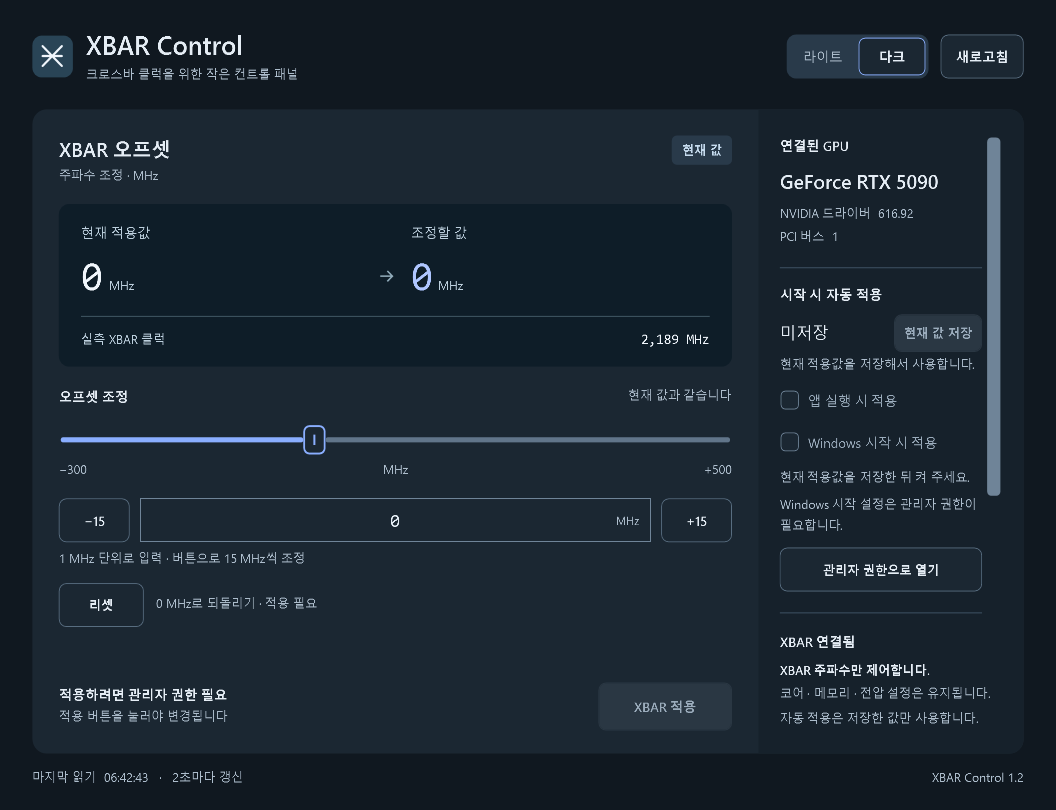
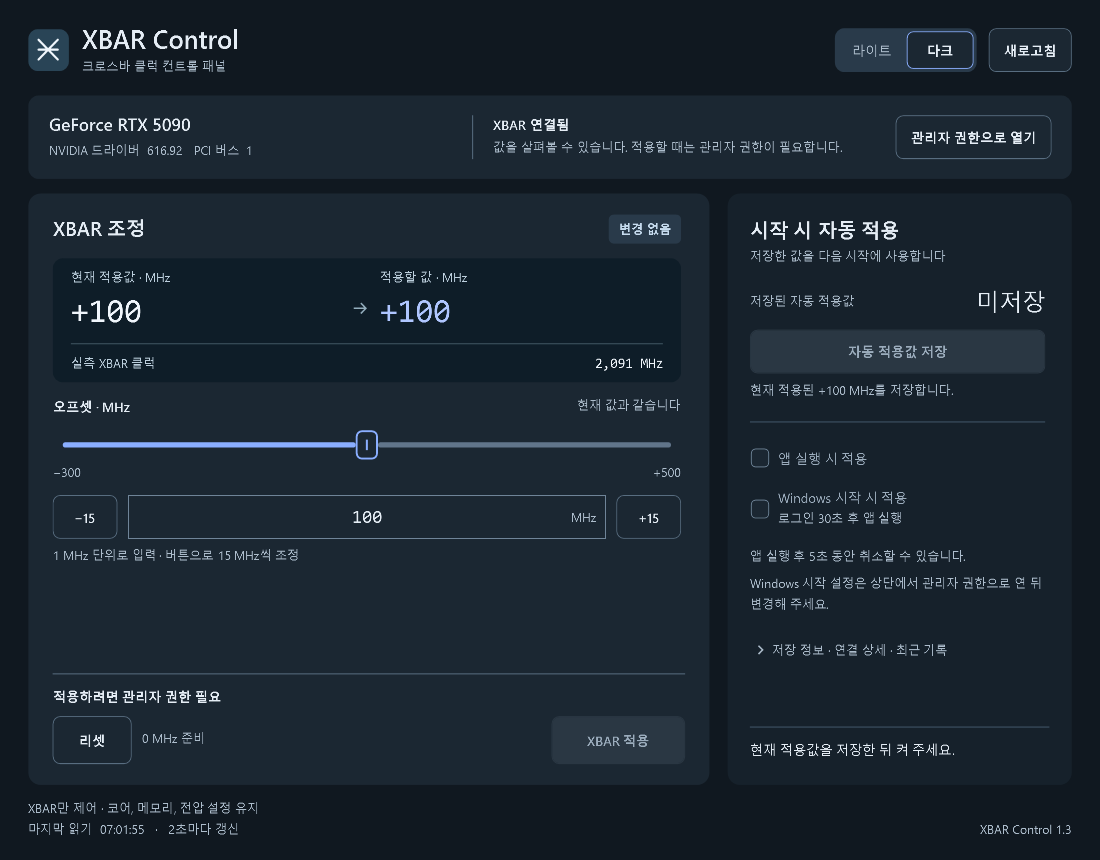
Improve control layout and delay Windows startup by 30 seconds

diff --git a/src/MainWindow.xaml b/src/MainWindow.xaml
@@ -1,6 +1,6 @@
 <Window xmlns="http://schemas.microsoft.com/winfx/2006/xaml/presentation"
         xmlns:x="http://schemas.microsoft.com/winfx/2006/xaml"
-        Title="XBAR Control" Width="1056" Height="810" MinWidth="880" MinHeight="790"
+        Title="XBAR Control" Width="1100" Height="860" MinWidth="900" MinHeight="790"
         WindowStartupLocation="CenterScreen" Background="{DynamicResource Workspace}" Foreground="{DynamicResource Ink}"
         FontFamily="Segoe UI, Malgun Gothic" FontSize="13" UseLayoutRounding="True"
         TextOptions.TextFormattingMode="Display">
@@ -91,7 +91,7 @@
       </ToggleButton>
       <ContentPresenter x:Name="Expanded" Visibility="Collapsed"/>
     </StackPanel><ControlTemplate.Triggers><Trigger Property="IsExpanded" Value="True"><Setter TargetName="Expanded" Property="Visibility" Value="Visible"/></Trigger></ControlTemplate.Triggers></ControlTemplate></Setter.Value></Setter></Style>
-    <Style TargetType="ScrollBar"><Setter Property="Width" Value="10"/><Setter Property="Template"><Setter.Value><ControlTemplate TargetType="ScrollBar"><Grid Background="{DynamicResource Sidebar}"><Track x:Name="PART_Track" IsDirectionReversed="True" Orientation="Vertical"><Track.DecreaseRepeatButton><RepeatButton Command="ScrollBar.PageUpCommand" Opacity="0" Focusable="False"/></Track.DecreaseRepeatButton><Track.Thumb><Thumb><Thumb.Template><ControlTemplate TargetType="Thumb"><Border Background="{DynamicResource InputLine}" CornerRadius="4" Margin="2"/></ControlTemplate></Thumb.Template></Thumb></Track.Thumb><Track.IncreaseRepeatButton><RepeatButton Command="ScrollBar.PageDownCommand" Opacity="0" Focusable="False"/></Track.IncreaseRepeatButton></Track></Grid></ControlTemplate></Setter.Value></Setter></Style>
+    <Style TargetType="ScrollBar"><Setter Property="Width" Value="10"/><Setter Property="Template"><Setter.Value><ControlTemplate TargetType="ScrollBar"><Grid Background="Transparent"><Track x:Name="PART_Track" IsDirectionReversed="True" Orientation="Vertical"><Track.DecreaseRepeatButton><RepeatButton Command="ScrollBar.PageUpCommand" Opacity="0" Focusable="False"/></Track.DecreaseRepeatButton><Track.Thumb><Thumb><Thumb.Template><ControlTemplate TargetType="Thumb"><Border Background="{DynamicResource InputLine}" CornerRadius="4" Margin="2"/></ControlTemplate></Thumb.Template></Thumb></Track.Thumb><Track.IncreaseRepeatButton><RepeatButton Command="ScrollBar.PageDownCommand" Opacity="0" Focusable="False"/></Track.IncreaseRepeatButton></Track></Grid></ControlTemplate></Setter.Value></Setter></Style>
     <Style x:Key="TrackButton" TargetType="RepeatButton"><Setter Property="Focusable" Value="False"/><Setter Property="IsTabStop" Value="False"/><Setter Property="Template"><Setter.Value><ControlTemplate TargetType="RepeatButton"><Border Height="5" Background="{TemplateBinding Background}" CornerRadius="2"/></ControlTemplate></Setter.Value></Setter></Style>
     <Style TargetType="Slider">
       <Setter Property="FocusVisualStyle" Value="{StaticResource Focus}"/>
@@ -106,15 +106,15 @@
       </ControlTemplate></Setter.Value></Setter>
     </Style>
   </Window.Resources>
-  <Grid Margin="32,26,32,20">
-    <Grid.RowDefinitions><RowDefinition Height="Auto"/><RowDefinition Height="22"/><RowDefinition Height="*"/><RowDefinition Height="Auto"/></Grid.RowDefinitions>
-    <Grid>
+  <Grid Margin="28,20,28,18">
+    <Grid.RowDefinitions><RowDefinition Height="Auto"/><RowDefinition Height="Auto"/><RowDefinition Height="*"/><RowDefinition Height="Auto"/></Grid.RowDefinitions>
+    <Grid Margin="0,0,0,16">
       <Grid.ColumnDefinitions><ColumnDefinition Width="*"/><ColumnDefinition Width="Auto"/></Grid.ColumnDefinitions>
       <StackPanel Orientation="Horizontal" VerticalAlignment="Center">
         <Border Width="40" Height="40" Background="{DynamicResource Logo}" CornerRadius="9" Margin="0,0,13,0">
           <Viewbox Margin="10"><Path Data="M 0,0 L 20,20 M 20,0 L 0,20 M 0,10 L 20,10" Stroke="{DynamicResource LogoInk}" StrokeThickness="2.2" StrokeStartLineCap="Round" StrokeEndLineCap="Round"/></Viewbox>
         </Border>
-        <StackPanel><TextBlock Text="XBAR Control" FontSize="25" FontWeight="SemiBold"/><TextBlock Text="크로스바 클럭을 위한 작은 컨트롤 패널" Style="{StaticResource Quiet}" Margin="0,3,0,0"/></StackPanel>
+        <StackPanel><TextBlock Text="XBAR Control" FontSize="25" FontWeight="SemiBold"/><TextBlock Text="크로스바 클럭 컨트롤 패널" Style="{StaticResource Quiet}" Margin="0,2,0,0"/></StackPanel>
       </StackPanel>
       <StackPanel Grid.Column="1" Orientation="Horizontal" VerticalAlignment="Center">
         <Border Background="{DynamicResource StatusSurface}" CornerRadius="9" Padding="3" Margin="0,0,12,0">
@@ -123,98 +123,99 @@
             <RadioButton x:Name="DarkTheme" Content="다크" GroupName="Theme" Style="{StaticResource ThemeChoice}" Margin="2,0,0,0" AutomationProperties.Name="다크 모드" ToolTip="어두운 화면으로 전환 · 선택 자동 저장"/>
           </StackPanel>
         </Border>
-        <Button x:Name="RefreshButton" Content="새로고침" VerticalAlignment="Center" ToolTip="GPU에서 현재 값을 다시 읽습니다. F5"/>
+        <Button x:Name="RefreshButton" Content="새로고침" ToolTip="GPU에서 현재 값을 다시 읽습니다. F5"/>
       </StackPanel>
     </Grid>
-    <Border Grid.Row="2" Background="{DynamicResource Surface}" CornerRadius="14">
+    <Border Grid.Row="1" Background="{DynamicResource Surface}" CornerRadius="10" Padding="20,16" Margin="0,0,0,14">
       <Grid>
-        <Grid.ColumnDefinitions><ColumnDefinition Width="*"/><ColumnDefinition Width="262"/></Grid.ColumnDefinitions>
-        <Grid Margin="26,25,26,22">
-          <Grid.RowDefinitions><RowDefinition Height="Auto"/><RowDefinition Height="Auto"/><RowDefinition Height="Auto"/><RowDefinition Height="*"/><RowDefinition Height="Auto"/></Grid.RowDefinitions>
-          <Grid Margin="0,0,0,16">
-            <Grid.ColumnDefinitions><ColumnDefinition Width="*"/><ColumnDefinition Width="Auto"/></Grid.ColumnDefinitions>
-            <StackPanel><TextBlock Text="XBAR 오프셋" FontSize="19" FontWeight="SemiBold"/><TextBlock Text="주파수 조정 · MHz" Style="{StaticResource Quiet}" Margin="0,4,0,0"/></StackPanel>
-            <Border Grid.Column="1" x:Name="StateBadge" Background="{DynamicResource StatusSurface}" CornerRadius="5" Padding="10,6" VerticalAlignment="Top"><TextBlock x:Name="StateBadgeText" Text="연결 중" FontSize="12" Foreground="{DynamicResource StatusInk}" FontWeight="SemiBold"/></Border>
-          </Grid>
-          <Border Grid.Row="1" Background="{DynamicResource Readout}" CornerRadius="10" Padding="22,18">
-            <Grid>
-              <Grid.RowDefinitions><RowDefinition Height="Auto"/><RowDefinition Height="Auto"/><RowDefinition Height="Auto"/></Grid.RowDefinitions>
-              <Grid.ColumnDefinitions><ColumnDefinition Width="*"/><ColumnDefinition Width="30"/><ColumnDefinition Width="*"/></Grid.ColumnDefinitions>
-              <TextBlock Text="현재 적용값" Foreground="{DynamicResource ReadoutMuted}" FontSize="13"/>
-              <TextBlock Text="조정할 값" Grid.Column="2" Foreground="{DynamicResource ReadoutMuted}" FontSize="13"/>
-              <StackPanel Grid.Row="1" Orientation="Horizontal" Margin="0,10,0,15"><TextBlock x:Name="CurrentValue" Text="—" FontFamily="Consolas" FontSize="39" Foreground="{DynamicResource ReadoutInk}"/><TextBlock Text="MHz" Foreground="{DynamicResource ReadoutMuted}" FontSize="12" VerticalAlignment="Bottom" Margin="6,0,0,7"/></StackPanel>
-              <Path Grid.Row="1" Grid.Column="1" Data="M 0,0 L 12,0 M 7,-5 L 12,0 L 7,5" Stroke="{DynamicResource ReadoutArrow}" StrokeThickness="1.5" VerticalAlignment="Center" HorizontalAlignment="Left"/>
-              <StackPanel Grid.Row="1" Grid.Column="2" Orientation="Horizontal" Margin="0,10,0,15"><TextBlock x:Name="TargetValue" Text="—" FontFamily="Consolas" FontSize="39" Foreground="{DynamicResource PendingInk}"/><TextBlock Text="MHz" Foreground="{DynamicResource ReadoutMuted}" FontSize="12" VerticalAlignment="Bottom" Margin="6,0,0,7"/></StackPanel>
-              <Border Grid.Row="2" Grid.ColumnSpan="3" BorderBrush="{DynamicResource ReadoutLine}" BorderThickness="0,1,0,0" Padding="0,13,0,0"><Grid><TextBlock Text="실측 XBAR 클럭" Foreground="{DynamicResource ReadoutMuted}" FontSize="12"/><TextBlock x:Name="PhysicalClock" Text="읽는 중…" HorizontalAlignment="Right" Foreground="{DynamicResource ReadoutInk}" FontFamily="Consolas" FontSize="14"/></Grid></Border>
-            </Grid>
-          </Border>
-          <StackPanel Grid.Row="2" Margin="0,19,0,0">
-            <Grid><TextBlock Text="오프셋 조정" FontWeight="SemiBold"/><TextBlock x:Name="DeltaText" Text="현재 값을 불러오고 있습니다" Style="{StaticResource Quiet}" HorizontalAlignment="Right"/></Grid>
-            <Slider x:Name="OffsetSlider" Minimum="-300" Maximum="500" TickFrequency="1" SmallChange="1" LargeChange="15" IsSnapToTickEnabled="True" Margin="-8,13,-8,0" IsEnabled="False" AutomationProperties.Name="XBAR 오프셋 조정"/>
-            <Grid Margin="0,2,0,16"><TextBlock x:Name="RangeMin" Text="−300" Style="{StaticResource Quiet}"/><TextBlock Text="MHz" Style="{StaticResource Quiet}" HorizontalAlignment="Center"/><TextBlock x:Name="RangeMax" Text="+500" Style="{StaticResource Quiet}" HorizontalAlignment="Right"/></Grid>
-            <Grid>
-              <Grid.ColumnDefinitions><ColumnDefinition Width="70"/><ColumnDefinition Width="10"/><ColumnDefinition Width="*"/><ColumnDefinition Width="10"/><ColumnDefinition Width="70"/></Grid.ColumnDefinitions>
-              <Button x:Name="MinusButton" Content="−15" AutomationProperties.Name="XBAR 조정값 15 MHz 낮추기" IsEnabled="False"/>
-              <Grid Grid.Column="2"><TextBox x:Name="OffsetInput" Text="" IsEnabled="False" AutomationProperties.Name="XBAR 오프셋 MHz 직접 입력" FontFamily="Consolas" FontSize="18" TextAlignment="Center" Padding="30,8"/><TextBlock Text="MHz" IsHitTestVisible="False" HorizontalAlignment="Right" VerticalAlignment="Center" Foreground="{DynamicResource Muted}" FontSize="11" Margin="0,0,12,0"/></Grid>
-              <Button x:Name="PlusButton" Grid.Column="4" Content="+15" AutomationProperties.Name="XBAR 조정값 15 MHz 높이기" IsEnabled="False"/>
-            </Grid>
-            <TextBlock x:Name="InputHint" Text="1 MHz 단위로 입력 · 버튼으로 15 MHz씩 조정" Style="{StaticResource Quiet}" Margin="0,7,0,0"/>
-            <StackPanel Orientation="Horizontal" Margin="0,12,0,0"><Button x:Name="ResetButton" Content="리셋" FontSize="12" MinWidth="84" IsEnabled="False" ToolTip="오프셋을 0 MHz로 준비합니다. XBAR 적용을 누르면 반영됩니다."/><TextBlock Text="0 MHz로 되돌리기 · 적용 필요" Style="{StaticResource Quiet}" Margin="12,0,0,0" VerticalAlignment="Center"/></StackPanel>
-          </StackPanel>
-          <Grid Grid.Row="4" Margin="0,16,0,0">
-            <Grid.ColumnDefinitions><ColumnDefinition Width="*"/><ColumnDefinition Width="Auto"/></Grid.ColumnDefinitions>
-            <StackPanel VerticalAlignment="Center" Margin="0,0,14,0"><TextBlock x:Name="ApplyStatus" Text="GPU 연결 중" FontWeight="SemiBold" FontSize="13"/><TextBlock Text="적용 버튼을 눌러야 변경됩니다" Style="{StaticResource Quiet}" Margin="0,4,0,0"/></StackPanel>
-            <Button x:Name="ApplyButton" Grid.Column="1" Content="XBAR 적용" Style="{StaticResource Primary}" MinWidth="132" MinHeight="46" IsEnabled="False"/>
-          </Grid>
-        </Grid>
-        <Border Grid.Column="1" Background="{DynamicResource Sidebar}" CornerRadius="0,14,14,0" Padding="21,25,21,22">
-          <Grid>
-            <Grid.RowDefinitions><RowDefinition Height="*"/><RowDefinition Height="Auto"/></Grid.RowDefinitions>
-            <ScrollViewer VerticalScrollBarVisibility="Auto" HorizontalScrollBarVisibility="Disabled" Padding="0,0,3,0" CanContentScroll="False">
-            <StackPanel>
-            <StackPanel>
-              <TextBlock Text="연결된 GPU" FontSize="13" FontWeight="SemiBold"/>
-              <TextBlock x:Name="GpuName" Text="NVIDIA GPU 검색 중…" FontSize="19" FontWeight="SemiBold" Margin="0,13,0,8" LineHeight="27"/>
-              <ComboBox x:Name="GpuSelector" Visibility="Collapsed" Margin="0,3,0,10" AutomationProperties.Name="제어할 NVIDIA GPU"/>
-              <TextBlock x:Name="DriverText" Text="드라이버 확인 중" Style="{StaticResource Quiet}"/>
-              <TextBlock x:Name="BusText" Text="" Style="{StaticResource Quiet}" Margin="0,2,0,0"/>
-            </StackPanel>
-            <Border BorderBrush="{DynamicResource SidebarLine}" BorderThickness="0,1,0,0" Padding="0,16,0,0" Margin="0,18,0,0">
-              <StackPanel>
-                <TextBlock Text="시작 시 자동 적용" FontWeight="SemiBold"/>
-                <Grid Margin="0,10,0,3"><Grid.ColumnDefinitions><ColumnDefinition Width="*"/><ColumnDefinition Width="Auto"/></Grid.ColumnDefinitions>
-                  <TextBlock x:Name="SavedStartupValue" Text="미저장" FontFamily="Consolas, Malgun Gothic" FontSize="16" VerticalAlignment="Center" Margin="0,0,6,0"/>
-                  <Button x:Name="SaveStartupButton" Grid.Column="1" Content="현재 값 저장" FontSize="12" Padding="9,7" MinHeight="36" ToolTip="GPU에 현재 적용된 값을 자동 적용용으로 저장합니다. 입력 중인 값은 저장하지 않습니다."/>
-                </Grid>
-                <TextBlock x:Name="SavedStartupDevice" Style="{StaticResource Quiet}" Margin="0,0,0,3"/>
-                <CheckBox x:Name="AppStartCheck" Content="앱 실행 시 적용" AutomationProperties.Name="앱 실행 시 저장된 XBAR 값 자동 적용"/>
-                <CheckBox x:Name="WindowsStartCheck" Content="Windows 시작 시 적용" AutomationProperties.Name="Windows 로그인 시 실행하고 저장된 XBAR 값 적용"/>
-                <TextBlock x:Name="StartupDetail" Text="현재 적용값을 저장한 뒤 켜 주세요." Style="{StaticResource Quiet}" Margin="0,5,0,0" AutomationProperties.LiveSetting="Polite"/>
-                <Button x:Name="CancelStartupButton" Content="이번 자동 적용 취소" FontSize="12" Margin="0,8,0,0" Visibility="Collapsed"/>
-                <TextBlock x:Name="StartupPermission" Style="{StaticResource Quiet}" Margin="0,6,0,0"/>
-                <Button x:Name="AdminButton" Content="관리자 권한으로 열기" Margin="0,10,0,0" FontSize="12" Visibility="Collapsed"/>
-              </StackPanel>
-            </Border>
-            <Border Grid.Row="1" BorderBrush="{DynamicResource SidebarLine}" BorderThickness="0,1,0,0" Padding="0,18,0,0" Margin="0,20,0,0">
-              <StackPanel>
-                <TextBlock x:Name="ConnectionTitle" Text="상태를 확인하고 있습니다" FontWeight="SemiBold" FontSize="13"/>
-                <TextBlock x:Name="ConnectionDetail" Text="드라이버와 XBAR 데이터를 읽습니다." Style="{StaticResource Quiet}" Margin="0,7,0,0"/>
-                <Expander x:Name="CompatibilityExpander" Header="호환성 상세" FontSize="12" Margin="0,13,0,0" Foreground="{DynamicResource Muted}"><TextBlock x:Name="TechnicalDetail" Text="검사 중" Style="{StaticResource Quiet}" Margin="0,8,0,0"/></Expander>
-              </StackPanel>
-            </Border>
-            <Border Grid.Row="2" BorderBrush="{DynamicResource SidebarLine}" BorderThickness="0,1,0,0" Padding="0,18,0,0" Margin="0,18,0,0"><TextBlock Text="이번 세션" FontWeight="SemiBold" FontSize="13"/></Border>
-            <StackPanel x:Name="EventPanel" Grid.Row="3" Margin="0,10,0,0"/>
-            </StackPanel>
-            </ScrollViewer>
-            <StackPanel Grid.Row="1" Margin="0,12,0,0">
-              <TextBlock Text="XBAR 주파수만 제어합니다." FontSize="12" FontWeight="SemiBold"/>
-              <TextBlock Text="코어 · 메모리 · 전압 설정은 유지됩니다." Style="{StaticResource Quiet}" Margin="0,6,0,0"/>
-              <TextBlock Text="자동 적용은 저장한 값만 사용합니다." Style="{StaticResource Quiet}" Margin="0,4,0,0"/>
-            </StackPanel>
-          </Grid>
+        <Grid.ColumnDefinitions><ColumnDefinition Width="1.05*"/><ColumnDefinition Width="*"/><ColumnDefinition Width="Auto"/></Grid.ColumnDefinitions>
+        <StackPanel Margin="0,0,20,0" VerticalAlignment="Center">
+          <TextBlock x:Name="GpuName" Text="NVIDIA GPU 검색 중…" FontSize="17" FontWeight="SemiBold"/>
+          <ComboBox x:Name="GpuSelector" Visibility="Collapsed" Margin="0,8,0,0" AutomationProperties.Name="제어할 NVIDIA GPU"/>
+          <WrapPanel Margin="0,5,0,0"><TextBlock x:Name="DriverText" Text="드라이버 확인 중" Style="{StaticResource Quiet}" Margin="0,0,12,0"/><TextBlock x:Name="BusText" Style="{StaticResource Quiet}"/></WrapPanel>
+        </StackPanel>
+        <Border Grid.Column="1" BorderBrush="{DynamicResource Line}" BorderThickness="1,0,0,0" Padding="20,0,0,0" VerticalAlignment="Center">
+          <StackPanel><TextBlock x:Name="ConnectionTitle" Text="상태를 확인하고 있습니다" FontWeight="SemiBold"/><TextBlock x:Name="ConnectionDetail" Text="드라이버와 XBAR 데이터를 읽습니다." Style="{StaticResource Quiet}" Margin="0,4,0,0" AutomationProperties.LiveSetting="Polite"/></StackPanel>
         </Border>
+        <Button x:Name="AdminButton" Grid.Column="2" Content="관리자 권한으로 열기" Margin="20,0,0,0" VerticalAlignment="Center" Visibility="Collapsed"/>
       </Grid>
     </Border>
-    <Grid Grid.Row="3" Margin="0,14,0,0"><TextBlock x:Name="LastRead" Text="로컬 GPU에 연결 중" Style="{StaticResource Quiet}"/><TextBlock Text="XBAR Control 1.2" HorizontalAlignment="Right" Style="{StaticResource Quiet}"/></Grid>
+    <Grid Grid.Row="2">
+      <Grid.ColumnDefinitions><ColumnDefinition Width="*"/><ColumnDefinition Width="18"/><ColumnDefinition Width="340"/></Grid.ColumnDefinitions>
+      <Border Background="{DynamicResource Surface}" CornerRadius="12" Padding="24,20">
+        <Grid>
+          <Grid.RowDefinitions><RowDefinition Height="*"/><RowDefinition Height="Auto"/></Grid.RowDefinitions>
+          <ScrollViewer x:Name="ManualScroll" VerticalScrollBarVisibility="Auto" HorizontalScrollBarVisibility="Disabled" Padding="0,0,4,0">
+            <StackPanel>
+              <Grid Margin="0,0,0,14">
+                <Grid.ColumnDefinitions><ColumnDefinition Width="*"/><ColumnDefinition Width="Auto"/></Grid.ColumnDefinitions>
+                <TextBlock Text="XBAR 조정" FontSize="19" FontWeight="SemiBold"/>
+                <Border Grid.Column="1" x:Name="StateBadge" Background="{DynamicResource StatusSurface}" CornerRadius="5" Padding="10,6" VerticalAlignment="Top"><TextBlock x:Name="StateBadgeText" Text="연결 중" FontSize="12" Foreground="{DynamicResource StatusInk}" FontWeight="SemiBold"/></Border>
+              </Grid>
+              <Border Background="{DynamicResource Readout}" CornerRadius="10" Padding="18,10">
+                <Grid>
+                  <Grid.RowDefinitions><RowDefinition Height="Auto"/><RowDefinition Height="Auto"/><RowDefinition Height="Auto"/></Grid.RowDefinitions>
+                  <Grid.ColumnDefinitions><ColumnDefinition Width="*"/><ColumnDefinition Width="26"/><ColumnDefinition Width="*"/></Grid.ColumnDefinitions>
+                  <TextBlock Text="현재 적용값 · MHz" FontSize="12" Foreground="{DynamicResource ReadoutMuted}"/>
+                  <TextBlock Grid.Column="2" Text="적용할 값 · MHz" FontSize="12" Foreground="{DynamicResource ReadoutMuted}"/>
+                  <TextBlock x:Name="CurrentValue" Grid.Row="1" Text="—" FontFamily="Consolas" FontSize="32" Foreground="{DynamicResource ReadoutInk}" Margin="0,6,0,0"/>
+                  <Path Grid.Row="1" Grid.Column="1" Data="M 0,6 L 12,6 M 7,1 L 12,6 L 7,11" Stroke="{DynamicResource ReadoutArrow}" StrokeThickness="1.5" HorizontalAlignment="Left" VerticalAlignment="Center"/>
+                  <TextBlock x:Name="TargetValue" Grid.Row="1" Grid.Column="2" Text="—" FontFamily="Consolas" FontSize="32" Foreground="{DynamicResource PendingInk}" Margin="0,6,0,0"/>
+                  <Border Grid.Row="2" Grid.ColumnSpan="3" Margin="0,12,0,0" BorderBrush="{DynamicResource ReadoutLine}" BorderThickness="0,1,0,0" Padding="0,10,0,0"><Grid><Grid.ColumnDefinitions><ColumnDefinition Width="*"/><ColumnDefinition Width="Auto"/></Grid.ColumnDefinitions><TextBlock Text="실측 XBAR 클럭" Foreground="{DynamicResource ReadoutMuted}" FontSize="12"/><TextBlock x:Name="PhysicalClock" Grid.Column="1" Text="읽는 중…" Foreground="{DynamicResource ReadoutInk}" FontFamily="Consolas" FontSize="14"/></Grid></Border>
+                </Grid>
+              </Border>
+              <Grid Margin="0,14,0,0"><Grid.ColumnDefinitions><ColumnDefinition Width="Auto"/><ColumnDefinition Width="*"/></Grid.ColumnDefinitions><TextBlock Text="오프셋 · MHz" FontWeight="SemiBold"/><TextBlock x:Name="DeltaText" Grid.Column="1" Text="현재 값 확인 중" Style="{StaticResource Quiet}" HorizontalAlignment="Right" Margin="12,0,0,0"/></Grid>
+              <Slider x:Name="OffsetSlider" Minimum="-300" Maximum="500" TickFrequency="1" SmallChange="1" LargeChange="15" IsSnapToTickEnabled="True" Margin="0,8,0,0" IsEnabled="False" AutomationProperties.Name="XBAR 오프셋 조정"/>
+              <Grid Margin="0,0,0,10"><TextBlock x:Name="RangeMin" Text="−300" Style="{StaticResource Quiet}"/><TextBlock x:Name="RangeMax" Text="+500" Style="{StaticResource Quiet}" HorizontalAlignment="Right"/></Grid>
+              <Grid>
+                <Grid.ColumnDefinitions><ColumnDefinition Width="64"/><ColumnDefinition Width="10"/><ColumnDefinition Width="*"/><ColumnDefinition Width="10"/><ColumnDefinition Width="64"/></Grid.ColumnDefinitions>
+                <Button x:Name="MinusButton" Content="−15" AutomationProperties.Name="XBAR 조정값 15 MHz 낮추기" IsEnabled="False"/>
+                <Grid Grid.Column="2"><TextBox x:Name="OffsetInput" Text="" IsEnabled="False" AutomationProperties.Name="XBAR 오프셋 MHz 직접 입력" FontFamily="Consolas" FontSize="18" TextAlignment="Center" Padding="30,8"/><TextBlock Text="MHz" IsHitTestVisible="False" HorizontalAlignment="Right" VerticalAlignment="Center" Foreground="{DynamicResource Muted}" FontSize="12" Margin="0,0,10,0"/></Grid>
+                <Button x:Name="PlusButton" Grid.Column="4" Content="+15" AutomationProperties.Name="XBAR 조정값 15 MHz 높이기" IsEnabled="False"/>
+              </Grid>
+              <TextBlock x:Name="InputHint" Text="1 MHz 단위로 입력 · 버튼으로 15 MHz씩 조정" Style="{StaticResource Quiet}" Margin="0,7,0,0"/>
+            </StackPanel>
+          </ScrollViewer>
+          <Border Grid.Row="1" BorderBrush="{DynamicResource Line}" BorderThickness="0,1,0,0" Padding="0,12,0,0" Margin="0,12,0,0">
+            <Grid><Grid.RowDefinitions><RowDefinition Height="Auto"/><RowDefinition Height="Auto"/></Grid.RowDefinitions><Grid.ColumnDefinitions><ColumnDefinition Width="*"/><ColumnDefinition Width="Auto"/></Grid.ColumnDefinitions>
+              <TextBlock x:Name="ApplyStatus" Grid.ColumnSpan="2" Text="GPU 연결 중" FontWeight="SemiBold" Margin="0,0,0,10"/>
+              <StackPanel Grid.Row="1" Orientation="Horizontal"><Button x:Name="ResetButton" Content="리셋" MinWidth="78" IsEnabled="False" ToolTip="오프셋을 0 MHz로 준비합니다. XBAR 적용을 누르면 반영됩니다."/><TextBlock Text="0 MHz 준비" Style="{StaticResource Quiet}" VerticalAlignment="Center" Margin="10,0,12,0"/></StackPanel>
+              <Button x:Name="ApplyButton" Grid.Row="1" Grid.Column="1" Content="XBAR 적용" Style="{StaticResource Primary}" MinWidth="132" MinHeight="46" IsEnabled="False"/>
+            </Grid>
+          </Border>
+        </Grid>
+      </Border>
+      <Border Grid.Column="2" Background="{DynamicResource Sidebar}" CornerRadius="12" Padding="22">
+        <Grid>
+          <Grid.RowDefinitions><RowDefinition Height="*"/><RowDefinition Height="Auto"/></Grid.RowDefinitions>
+          <ScrollViewer VerticalScrollBarVisibility="Auto" HorizontalScrollBarVisibility="Disabled" Padding="0,0,4,0">
+            <StackPanel>
+              <TextBlock Text="시작 시 자동 적용" FontSize="19" FontWeight="SemiBold"/>
+              <TextBlock Text="저장한 값을 다음 시작에 사용합니다" Style="{StaticResource Quiet}" Margin="0,4,0,0"/>
+              <Grid Margin="0,20,0,12"><Grid.ColumnDefinitions><ColumnDefinition Width="*"/><ColumnDefinition Width="Auto"/></Grid.ColumnDefinitions><TextBlock Text="저장된 자동 적용값" Style="{StaticResource Quiet}" VerticalAlignment="Center"/><TextBlock x:Name="SavedStartupValue" Grid.Column="1" Text="미저장" FontFamily="Consolas, Malgun Gothic" FontSize="23"/></Grid>
+              <Button x:Name="SaveStartupButton" Content="자동 적용값 저장" ToolTip="GPU에 현재 적용된 값을 자동 적용용으로 저장합니다. 입력 중인 값은 먼저 XBAR 적용을 눌러 주세요."/>
+              <TextBlock x:Name="SaveStartupHint" Style="{StaticResource Quiet}" Margin="0,8,0,0"/>
+              <Border BorderBrush="{DynamicResource SidebarLine}" BorderThickness="0,1,0,0" Padding="0,14,0,0" Margin="0,18,0,0">
+                <StackPanel>
+                  <CheckBox x:Name="AppStartCheck" Content="앱 실행 시 적용" AutomationProperties.Name="앱 실행 시 저장된 XBAR 값 자동 적용"/>
+                  <CheckBox x:Name="WindowsStartCheck" AutomationProperties.Name="Windows 로그인 30초 후 실행하고 저장된 XBAR 값 적용" MinHeight="58"><StackPanel><TextBlock Text="Windows 시작 시 적용"/><TextBlock Text="로그인 30초 후 앱 실행" Style="{StaticResource Quiet}" Margin="0,3,0,0"/></StackPanel></CheckBox>
+                  <TextBlock Text="앱 실행 후 5초 동안 취소할 수 있습니다." Style="{StaticResource Quiet}" Margin="0,8,0,0"/>
+                </StackPanel>
+              </Border>
+              <TextBlock x:Name="StartupPermission" Style="{StaticResource Quiet}" Margin="0,6,0,0"/>
+              <Expander x:Name="CompatibilityExpander" Header="저장 정보 · 연결 상세 · 최근 기록" FontSize="12" Margin="0,18,0,0">
+                <StackPanel Margin="0,10,0,0">
+                  <TextBlock Text="자동 적용 대상" FontWeight="SemiBold" FontSize="12"/><TextBlock x:Name="SavedStartupDevice" Style="{StaticResource Quiet}" Margin="0,6,0,16"/>
+                  <TextBlock Text="연결 상세" FontWeight="SemiBold" FontSize="12"/><TextBlock x:Name="TechnicalDetail" Text="검사 중" Style="{StaticResource Quiet}" Margin="0,6,0,16"/>
+                  <TextBlock Text="최근 기록" FontWeight="SemiBold" FontSize="12"/><StackPanel x:Name="EventPanel" Margin="0,8,0,0"/>
+                </StackPanel>
+              </Expander>
+            </StackPanel>
+          </ScrollViewer>
+          <Border Grid.Row="1" BorderBrush="{DynamicResource SidebarLine}" BorderThickness="0,1,0,0" Padding="0,12,0,0" Margin="0,12,0,0"><StackPanel><TextBlock x:Name="StartupDetail" Text="현재 적용값을 저장한 뒤 켜 주세요." LineHeight="21" AutomationProperties.LiveSetting="Polite"/><Button x:Name="CancelStartupButton" Content="이번 자동 적용 취소" Margin="0,12,0,0" Visibility="Collapsed"/></StackPanel></Border>
+        </Grid>
+      </Border>
+    </Grid>
+    <Grid Grid.Row="3" Margin="0,14,0,0"><Grid.ColumnDefinitions><ColumnDefinition Width="*"/><ColumnDefinition Width="Auto"/></Grid.ColumnDefinitions><StackPanel><TextBlock Text="XBAR만 제어 · 코어, 메모리, 전압 설정 유지" Style="{StaticResource Quiet}"/><TextBlock x:Name="LastRead" Text="로컬 GPU에 연결 중" Style="{StaticResource Quiet}"/></StackPanel><TextBlock Grid.Column="1" Text="XBAR Control 1.3" Style="{StaticResource Quiet}" VerticalAlignment="Bottom"/></Grid>
   </Grid>
 </Window>

diff --git a/src/App.cs b/src/App.cs
@@ -245,7 +245,7 @@ namespace XbarControl {
             UI<TextBlock>("InputHint").SetResourceReference(TextBlock.ForegroundProperty,invalid?"Error":"Muted");
             UI<TextBox>("OffsetInput").SetResourceReference(Control.BorderBrushProperty,invalid?"Error":"InputLine");
             Text("DeltaText",!has?"현재 값 확인 필요":!valid?"입력값 확인 필요":dirty?"현재 대비 "+Signed(target.Value-last.OffsetKhz/1000.0)+" MHz":"현재 값과 같습니다");
-            string badge=failed?"연결 확인 필요":applying?"적용 확인 중":!has?"연결 중":!last.Compatible?"읽기 전용":dirty?"변경 대기":"현재 값";
+            string badge=failed?"연결 확인 필요":applying?"적용 확인 중":!has?"연결 중":!last.Compatible?"읽기 전용":dirty?"변경 대기":"변경 없음";
             Text("StateBadgeText",badge);
             UI<Border>("StateBadge").SetResourceReference(Border.BackgroundProperty,dirty?"PendingSurface":"StatusSurface");
             Text("ApplyStatus",failed?"읽기 실패 · 새로고침해 주세요":!has?"GPU 연결 중":applying?"드라이버 응답을 확인합니다":!valid?"입력값을 확인해 주세요":!last.Compatible?"미검증 드라이버 · 적용 불가":!NvApi.IsAdmin?"적용하려면 관리자 권한 필요":dirty?"XBAR "+Signed(target.Value)+" MHz 준비됨":"변경 사항 없음");
@@ -280,11 +280,14 @@ namespace XbarControl {
             UI<CheckBox>("AppStartCheck").IsEnabled=idle&&captureArgs.Length==0&&(startup.AppStart || (startup.HasProfile&&usable));
             UI<CheckBox>("WindowsStartCheck").IsEnabled=idle&&captureArgs.Length==0&&NvApi.IsAdmin&&(startup.WindowsLogon || taskRegistered || (startup.HasProfile&&usable));
             UI<Button>("SaveStartupButton").IsEnabled=idle&&usable&&captureArgs.Length==0&&(!startup.WindowsLogon||NvApi.IsAdmin);
+            UI<Button>("SaveStartupButton").Content=startupBusy?"처리 중…":"자동 적용값 저장";
             UI<Button>("CancelStartupButton").Visibility=startupPending?Visibility.Visible:Visibility.Collapsed;
             Text("SavedStartupValue",startup.HasProfile?Signed(startup.OffsetMhz)+" MHz":"미저장");
+            bool edited=last!=null&&(!target.HasValue||target.Value*1000!=last.OffsetKhz);
+            Text("SaveStartupHint",!usable?"GPU의 현재 적용값을 확인한 뒤 저장해 주세요.":edited?"현재 적용된 "+Signed(last.OffsetKhz/1000.0)+" MHz를 저장합니다. 입력 중인 값은 먼저 XBAR 적용을 눌러 주세요.":"현재 적용된 "+Signed(last.OffsetKhz/1000.0)+" MHz를 저장합니다.");
             Text("SavedStartupDevice",startup.HasProfile?startup.GpuName.Replace("NVIDIA ","")+" · PCI "+startup.Bus+"\n드라이버 "+startup.Driver:"현재 적용값을 저장해서 사용합니다.");
             Text("StartupDetail",startupBusy?"시작 설정을 저장하고 있습니다…":startupMessage);
-            Text("StartupPermission",NvApi.IsAdmin?"Windows 로그인 20초 후 실행합니다.":"Windows 시작 설정은 관리자 권한이 필요합니다.");
+            Text("StartupPermission",NvApi.IsAdmin?"":"Windows 시작 설정은 상단에서 관리자 권한으로 연 뒤 변경해 주세요.");
             if(!NvApi.IsAdmin && captureArgs.Length==0) UI<Button>("AdminButton").Visibility=Visibility.Visible;
         }
         void CancelStartup() {
@@ -304,7 +307,7 @@ namespace XbarControl {
                 if(next.WindowsLogon) { await Task.Run(()=>StartupTask.Register()); taskRegistered=true; }
                 startupStore.Save(next); startup=next; startupStore.ClearAttempt();
                 last=current; failed=false; ShowReading();
-                startupMessage="현재 적용값 "+Signed(next.OffsetMhz)+" MHz를 저장했습니다. 시작 옵션을 선택해 주세요.";
+                startupMessage="자동 적용값 "+Signed(next.OffsetMhz)+" MHz 저장 완료. "+(next.AppStart||next.WindowsLogon?"다음 시작부터 이 값을 사용합니다.":"사용할 시작 옵션을 켜 주세요.");
                 AddEvent("자동 적용 값 저장  "+Signed(next.OffsetMhz)+" MHz");
             } catch(Exception ex) { startupMessage="저장 실패: "+ex.Message; }
             finally { startupBusy=false; Update(); }
@@ -325,7 +328,7 @@ namespace XbarControl {
                     else { startupStore.Save(next); startup=next; await Task.Run(()=>StartupTask.Remove()); taskRegistered=false; }
                 } else next.AppStart=enabled;
                 startupStore.Save(next); startup=next;
-                startupMessage=(windows?"Windows 로그인 시 실행·적용":"앱 실행 시 자동 적용")+(enabled?"을 켰습니다. 다음 시작부터 동작합니다.":"을 껐습니다.");
+                startupMessage=(windows?"Windows 시작 시 적용":"앱 실행 시 자동 적용")+(enabled?(windows?"을 켰습니다. 다음 로그인 30초 후 실행됩니다.":"을 켰습니다. 다음 시작부터 동작합니다."):"을 껐습니다.");
             } catch(Exception ex) {
                 if(newlyRegistered) { try { StartupTask.Remove(); taskRegistered=false; } catch { } }
                 startupMessage="시작 설정 변경 실패: "+ex.Message;
@@ -475,6 +478,9 @@ namespace XbarControl {
                 check(!target.HasValue&&UI<TextBox>("OffsetInput").Text=="unfinished","Incomplete input survives an in-flight refresh");
                 SetTarget(initial);
             }
+            Window.UpdateLayout();
+            var manualScroll=UI<ScrollViewer>("ManualScroll");
+            check(manualScroll.ExtentHeight<=manualScroll.ViewportHeight+1,"Manual inputs remain visible without scrolling at this window size");
             results.Add("Hardware writes performed: 0");
             string full=Path.GetFullPath(path); Directory.CreateDirectory(Path.GetDirectoryName(full)); File.WriteAllLines(full,results);
         }

diff --git a/src/Startup.cs b/src/Startup.cs
@@ -80,7 +80,7 @@ namespace XbarControl {
             using(var w=XmlWriter.Create(text,new XmlWriterSettings{OmitXmlDeclaration=true,Indent=true})) {
                 w.WriteStartElement("Task","http://schemas.microsoft.com/windows/2004/02/mit/task"); w.WriteAttributeString("version","1.2");
                 w.WriteStartElement("RegistrationInfo"); w.WriteElementString("Description","XBAR Control: apply the explicitly saved XBAR offset at this user's Windows logon."); w.WriteEndElement();
-                w.WriteStartElement("Triggers"); w.WriteStartElement("LogonTrigger"); w.WriteElementString("Enabled","true"); w.WriteElementString("UserId",sid); w.WriteElementString("Delay","PT20S"); w.WriteEndElement(); w.WriteEndElement();
+                w.WriteStartElement("Triggers"); w.WriteStartElement("LogonTrigger"); w.WriteElementString("Enabled","true"); w.WriteElementString("UserId",sid); w.WriteElementString("Delay","PT30S"); w.WriteEndElement(); w.WriteEndElement();
                 w.WriteStartElement("Principals"); w.WriteStartElement("Principal"); w.WriteAttributeString("id","User"); w.WriteElementString("UserId",sid); w.WriteElementString("LogonType","InteractiveToken"); w.WriteElementString("RunLevel","HighestAvailable"); w.WriteEndElement(); w.WriteEndElement();
                 w.WriteStartElement("Settings"); w.WriteElementString("MultipleInstancesPolicy","IgnoreNew"); w.WriteElementString("DisallowStartIfOnBatteries","false"); w.WriteElementString("StopIfGoingOnBatteries","false"); w.WriteElementString("AllowHardTerminate","false"); w.WriteElementString("StartWhenAvailable","false"); w.WriteElementString("ExecutionTimeLimit","PT0S"); w.WriteEndElement();
                 w.WriteStartElement("Actions"); w.WriteAttributeString("Context","User"); w.WriteStartElement("Exec"); w.WriteElementString("Command",executable); w.WriteElementString("Arguments","--startup"); w.WriteElementString("WorkingDirectory",Path.GetDirectoryName(executable)); w.WriteEndElement(); w.WriteEndElement(); w.WriteEndElement();

diff --git a/src/SelfTests.cs b/src/SelfTests.cs
@@ -70,7 +70,7 @@ namespace XbarControl {
                 Require(value("//t:Exec/t:Command")==exe&&value("//t:Exec/t:Arguments")=="--startup","Command escaped incorrectly");
                 Require(value("//t:Principal/t:UserId")==sid&&value("//t:LogonTrigger/t:UserId")==sid,"Wrong user");
                 Require(value("//t:LogonType")=="InteractiveToken"&&value("//t:RunLevel")=="HighestAvailable","Logon mode");
-                Require(value("//t:Delay")=="PT20S"&&doc.SelectNodes("//t:Repetition|//t:RestartOnFailure|//t:RegistrationTrigger",ns).Count==0,"Unexpected retry or immediate trigger");
+                Require(value("//t:Delay")=="PT30S"&&doc.SelectNodes("//t:Repetition|//t:RestartOnFailure|//t:RegistrationTrigger",ns).Count==0,"Unexpected retry or immediate trigger");
             });
             rows.Add("Hardware API calls: 0. "+(rows.Count-errors)+" passed, "+errors+" failed.");
             File.WriteAllLines(report,rows); return errors==0?0:1;

diff --git a/README.md b/README.md
@@ -4,7 +4,7 @@
 
 A small native Windows utility for XBAR frequency offsets, with a Korean interface and light/dark themes. Built with C# and WPF; no Python, browser, or original overclocking application is needed at runtime.
 
-[**Windows 다운로드**](https://github.com/mkyoon80-alt/xbar-control/releases/tag/v1.2.0) · [한국어 사용법](docs/usage.ko.md) · [검증 범위](docs/validation.md)
+[**Windows 다운로드**](https://github.com/mkyoon80-alt/xbar-control/releases/tag/v1.3.0) · [한국어 사용법](docs/usage.ko.md) · [검증 범위](docs/validation.md)
 
 ![XBAR Control 다크 모드](docs/images/dark.png)
 
@@ -20,6 +20,7 @@ A small native Windows utility for XBAR frequency offsets, with a Korean interfa
 - XBAR 오프셋과 실측 XBAR 클럭 표시, 여러 GPU 중 장치 선택.
 - 직접 입력, 슬라이더, ±15 MHz 버튼으로 값을 준비한 뒤 **XBAR 적용**으로 반영.
 - 라이트·다크 전환 및 선택 저장.
+- 상단 GPU 상태, 왼쪽 수동 조정, 오른쪽 자동 적용으로 나눈 화면. 리셋·적용과 자동 적용 취소는 하단에 고정.
 - 적용 직전 현재 값 확인, 적용 후 드라이버 응답 비교.
 - 단일 **리셋** 버튼으로 오프셋 0 MHz 준비.
 - **앱 실행 시 적용**과 **Windows 시작 시 적용**을 각각 선택. 현재 적용값을 별도로 저장해서 사용합니다.
@@ -29,7 +30,9 @@ A small native Windows utility for XBAR frequency offsets, with a Korean interfa
 
 Windows 10/11 64비트 및 .NET Framework 4.8을 대상으로 합니다. 릴리스의 `XbarControl-portable.zip`을 풀고 `XbarControl.exe`를 실행하세요. 값을 직접 적용하거나 Windows 시작 옵션을 변경하려면 앱의 **관리자 권한으로 열기**를 사용합니다.
 
-자동 적용은 기본으로 꺼져 있습니다. **현재 값 저장** 후 원하는 시작 옵션을 켜세요. Windows 시작 옵션은 관리자 권한이 필요하며, 로그인 20초 후 실행됩니다. 두 모드 모두 5초 동안 취소할 수 있습니다. [설정·해제 방법](docs/usage.ko.md#시작-시-자동-적용-12)을 확인하세요.
+자동 적용은 기본으로 꺼져 있습니다. **자동 적용값 저장** 후 원하는 시작 옵션을 켜세요. Windows 시작 옵션은 관리자 권한이 필요하며, 로그인 30초 후 실행됩니다. 두 모드 모두 5초 동안 취소할 수 있습니다. [설정·해제 방법](docs/usage.ko.md#시작-시-자동-적용-13)을 확인하세요.
+
+기존 Windows 시작 옵션을 사용했다면 새 EXE를 관리자 권한으로 열고 해당 옵션을 껐다 켜세요. 저장값을 유지하면서 새 실행 파일과 30초 대기 시간으로 갱신합니다.
 
 **실험적 도구입니다. RTX 5090 / NVIDIA 616.92에서 읽기와 화면 동작을 확인했지만, 실제 GPU 쓰기 및 오버클럭 안정성은 검증하지 않았습니다.** 입력 가능 범위는 안정성이 확인된 권장 범위가 아닙니다. 드라이버 검사에 실패하면 적용을 제한합니다. 자세한 지원 조건은 [검증 범위](docs/validation.md)를 참고하세요.
 

diff --git a/docs/validation.md b/docs/validation.md
@@ -35,8 +35,8 @@ Hardware reads were checked on an RTX 5090 with driver 616.92. Hardware writes a
 
 `--diagnose <report.json>`은 실제 GPU 값을 읽고 진단 파일을 작성합니다. SET을 호출하지 않습니다.
 
-`--capture <image.png> <width> <height> [ui-check] [dark]`는 WPF 화면을 렌더링합니다. 이 모드에서는 적용, 관리자 재실행, 시작 설정 저장과 작업 등록을 비활성화합니다. `ui-check`는 입력 검증, 슬라이더 동기화, 리셋, 갱신 도중 편집 보존, 자동 적용 취소 등 19개 화면 테스트를 수행합니다. `dark`는 저장된 사용자 테마를 변경하지 않고 다크 화면을 선택합니다.
+`--capture <image.png> <width> <height> [ui-check] [dark]`는 WPF 화면을 렌더링합니다. 이 모드에서는 적용, 관리자 재실행, 시작 설정 저장과 작업 등록을 비활성화합니다. `ui-check`는 입력 검증, 슬라이더 동기화, 리셋, 갱신 도중 편집 보존, 자동 적용 취소 및 최소 창 크기의 입력 영역 검사 등 20개 화면 테스트를 수행합니다. `dark`는 저장된 사용자 테마를 변경하지 않고 다크 화면을 선택합니다.
 
 `--validate-startup-task <report.txt>`는 Windows 작업 스케줄러의 `TASK_VALIDATE_ONLY`로 XML 형식을 확인하고 기존 등록 상태를 조회합니다. 실제 작업을 생성하거나 GPU API를 호출하지 않습니다. [Microsoft 작업 등록 문서](https://learn.microsoft.com/en-us/windows/win32/taskschd/taskfolder-registertaskdefinition)를 참고하세요.
 
-개발 중 제어 데이터·설정 테스트 29개와 화면 테스트 19개가 통과했으며, 화면 테스트는 라이트·다크 모드에서 확인했습니다. Windows 작업 등록 형식 및 조회도 통과했습니다. **실제 예약 작업 설치·등록, 재로그인, GPU 쓰기 및 안정성 시험은 수행하지 않았습니다.** 테스트 통과와 실제 GPU 쓰기 검증은 별개입니다.
+개발 중 제어 데이터·설정 테스트 29개와 화면 테스트 20개가 통과했으며, 화면 테스트는 라이트·다크 모드에서 확인했습니다. Windows 작업 등록 형식 및 조회도 통과했습니다. **실제 예약 작업 설치·등록, 재로그인, GPU 쓰기 및 안정성 시험은 수행하지 않았습니다.** 테스트 통과와 실제 GPU 쓰기 검증은 별개입니다.
